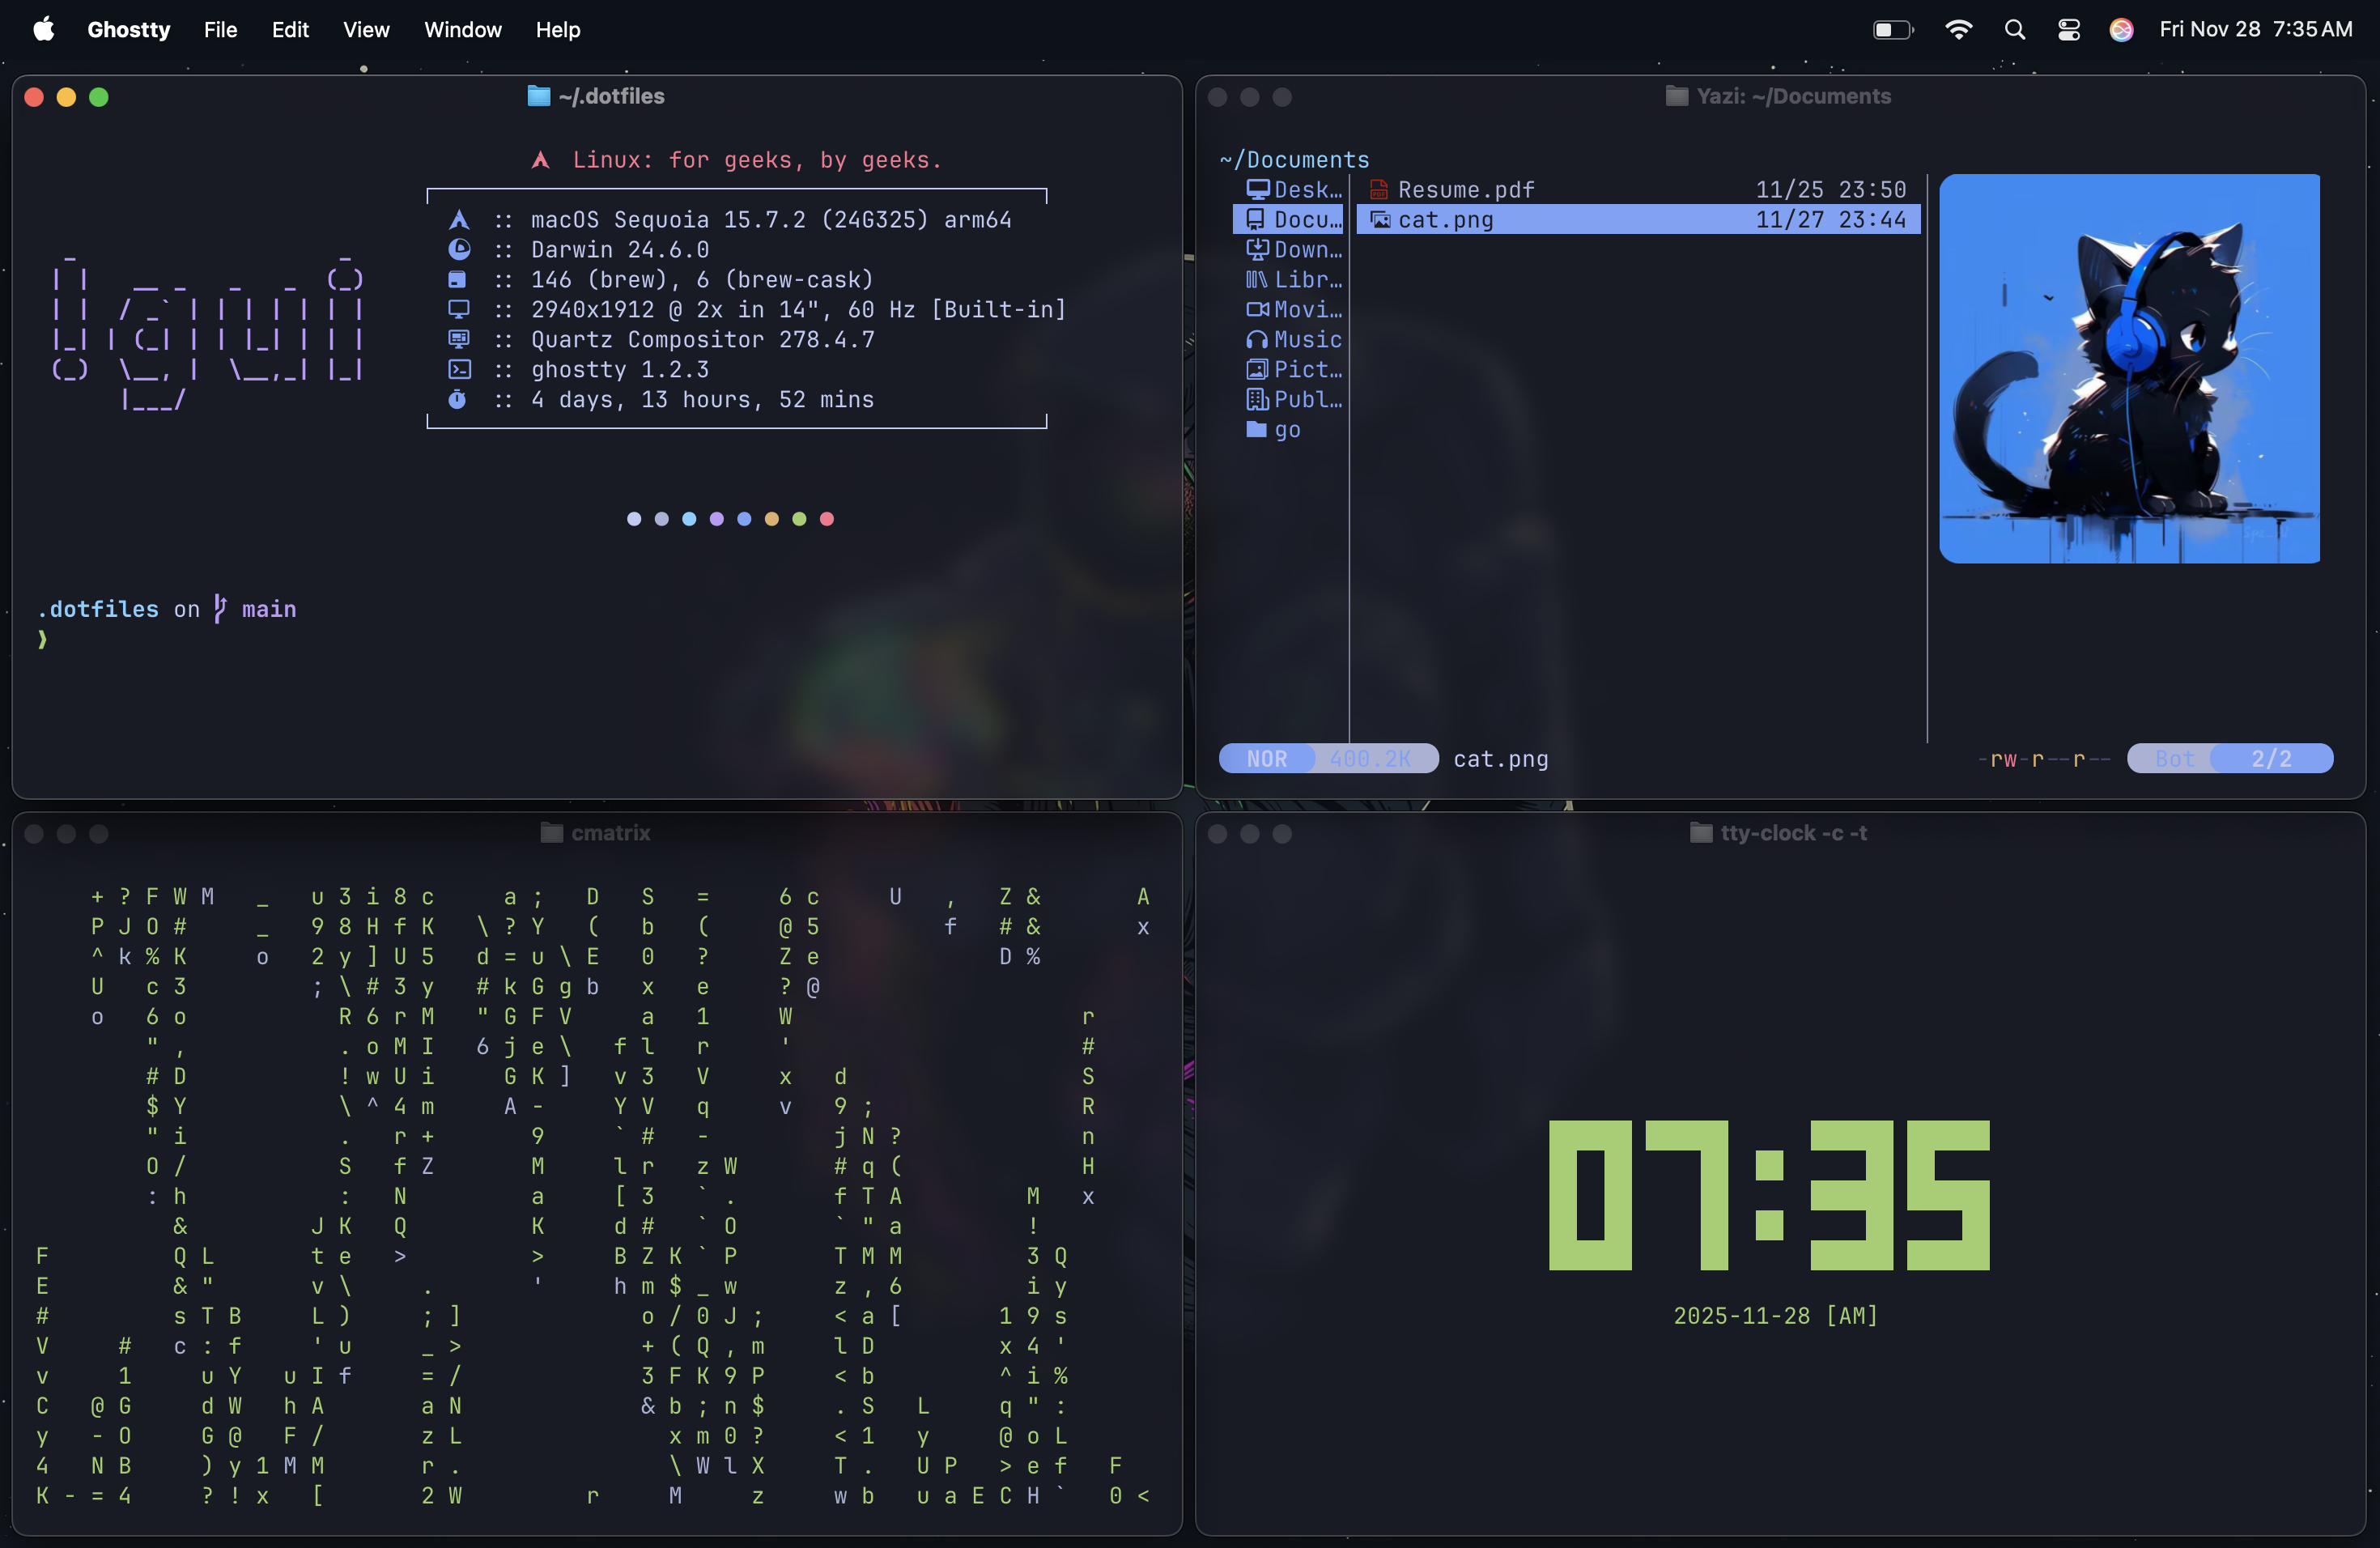
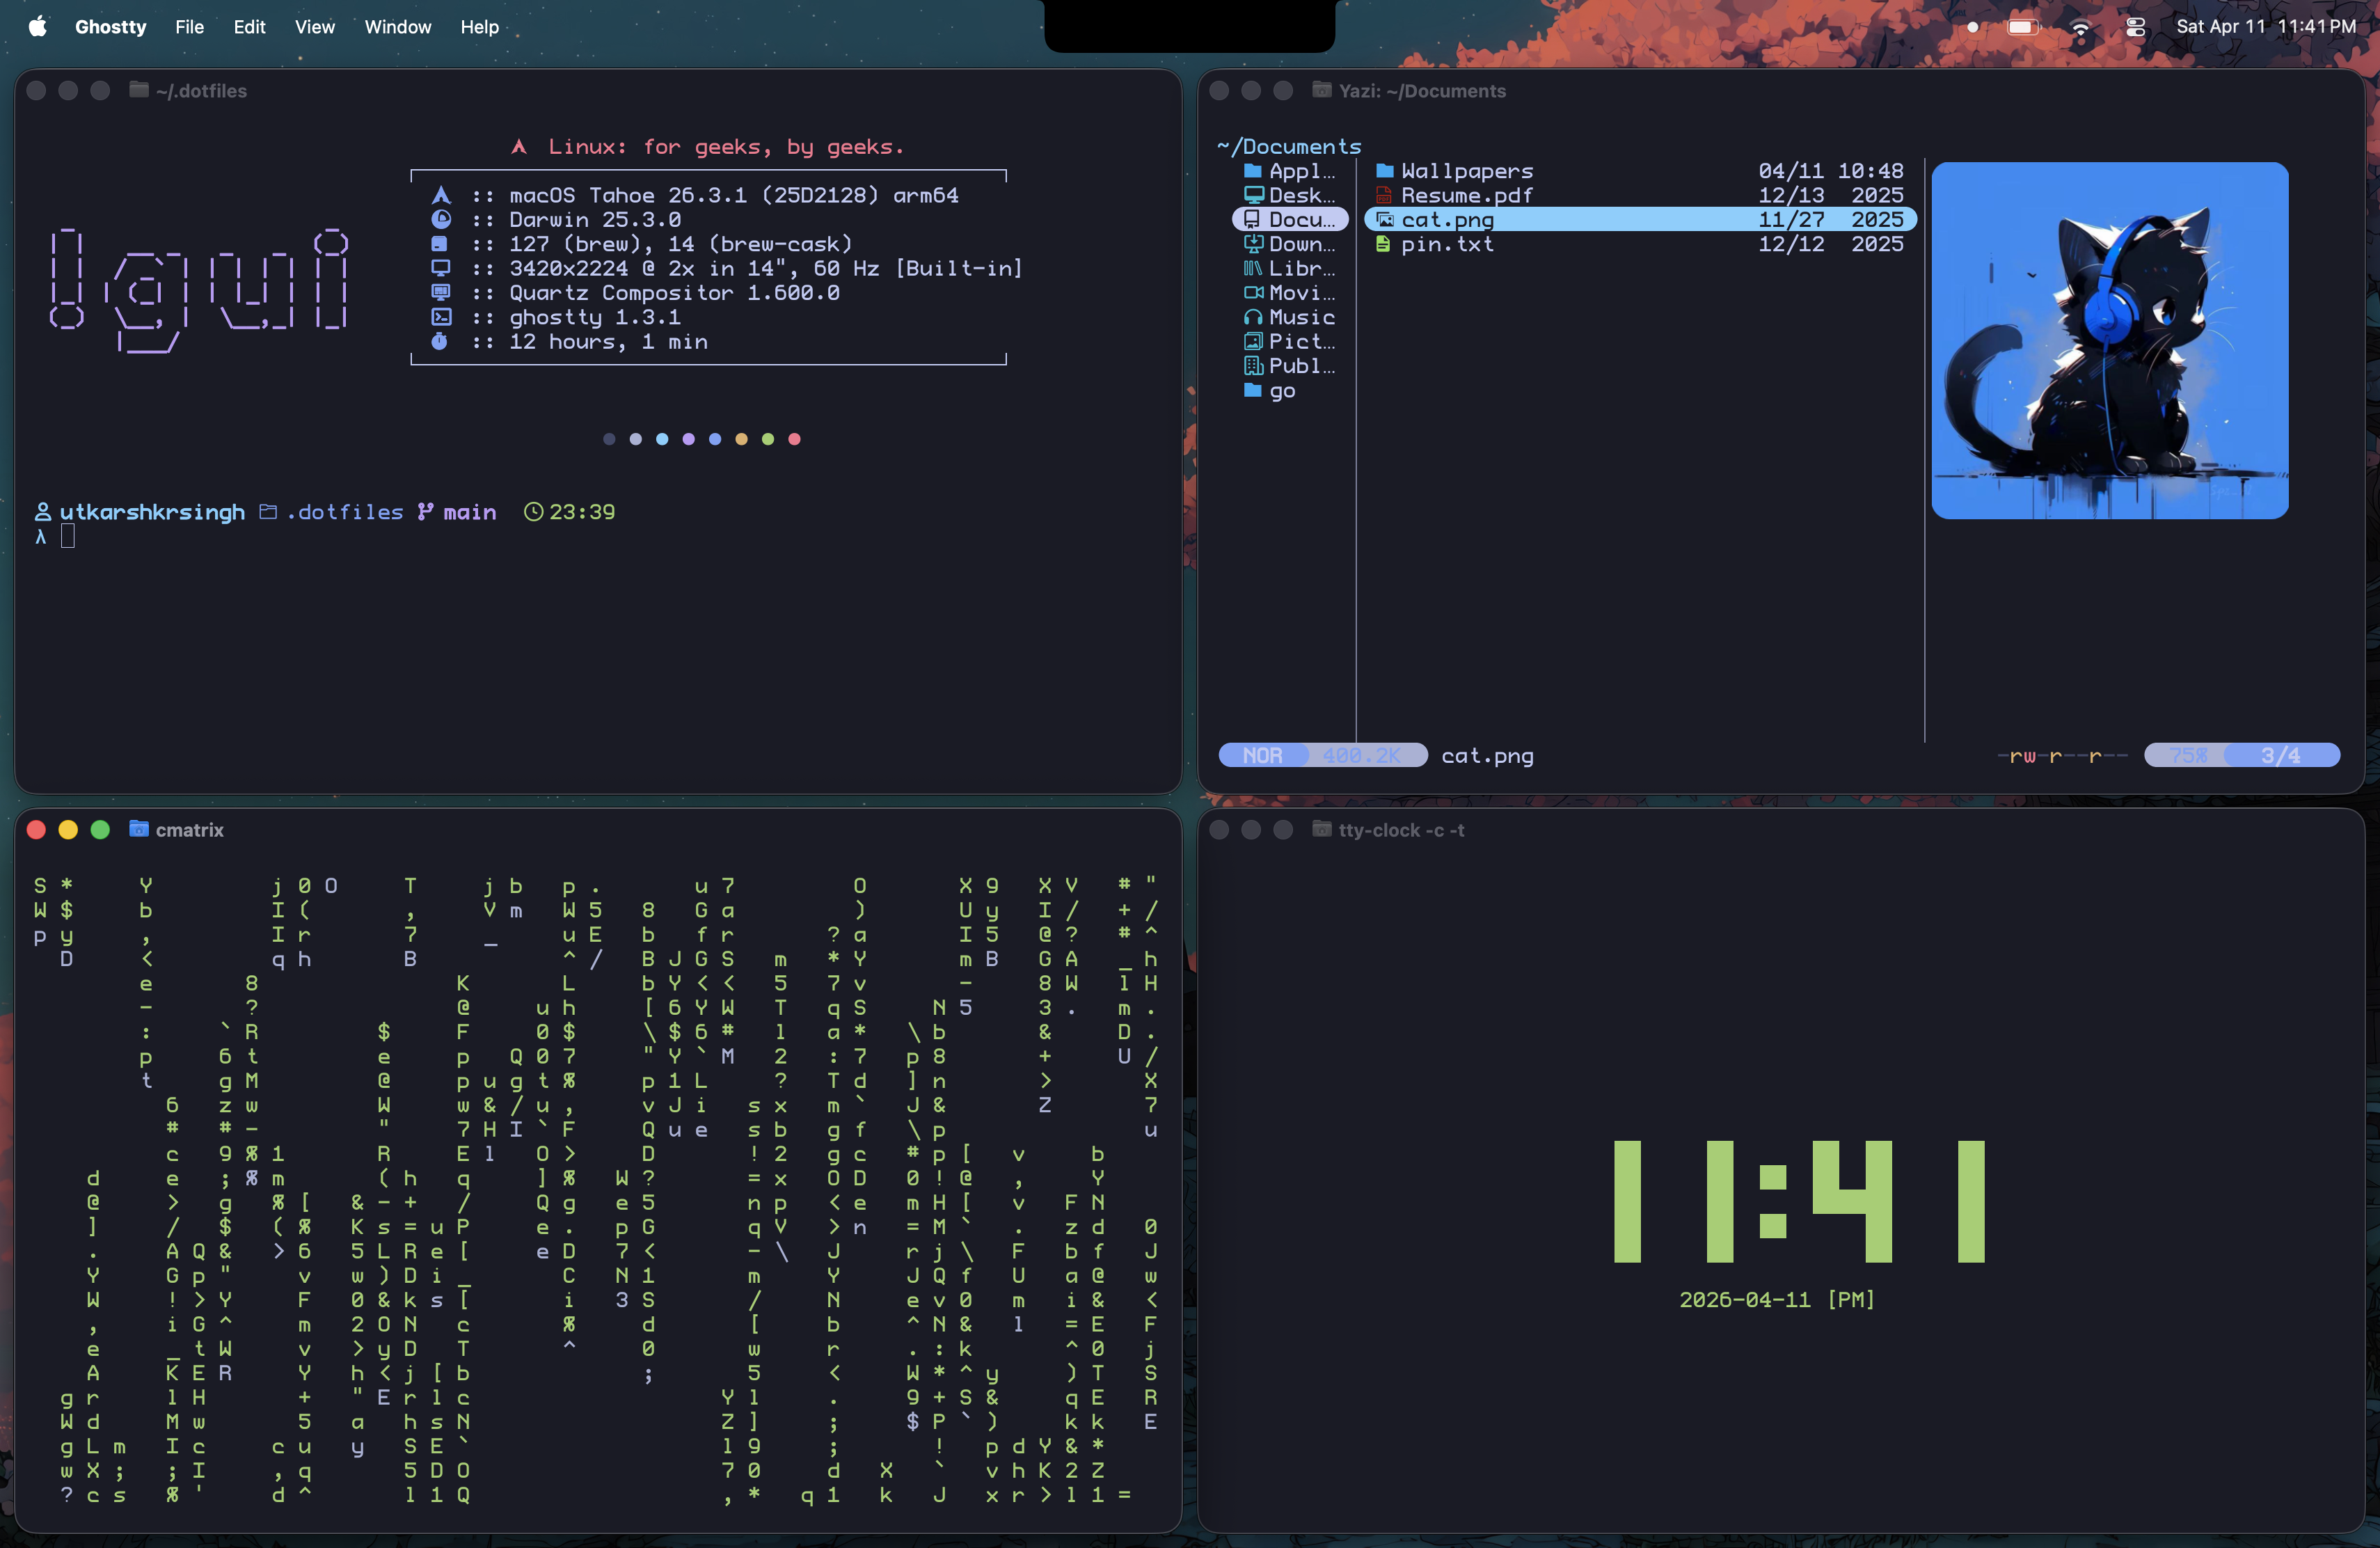
updated readme.md

diff --git a/README.md b/README.md
@@ -52,7 +52,7 @@
 
 - macOS Sequoia or newer (ARM recommended)
 - Homebrew
-- Nerd Fonts installed (recommended: FantasqueSansM Nerd Font)
+- Nerd Fonts installed (recommended: ProFont IIx Nerd Font)
 - Stow (for dotfiles management)
 
 ---